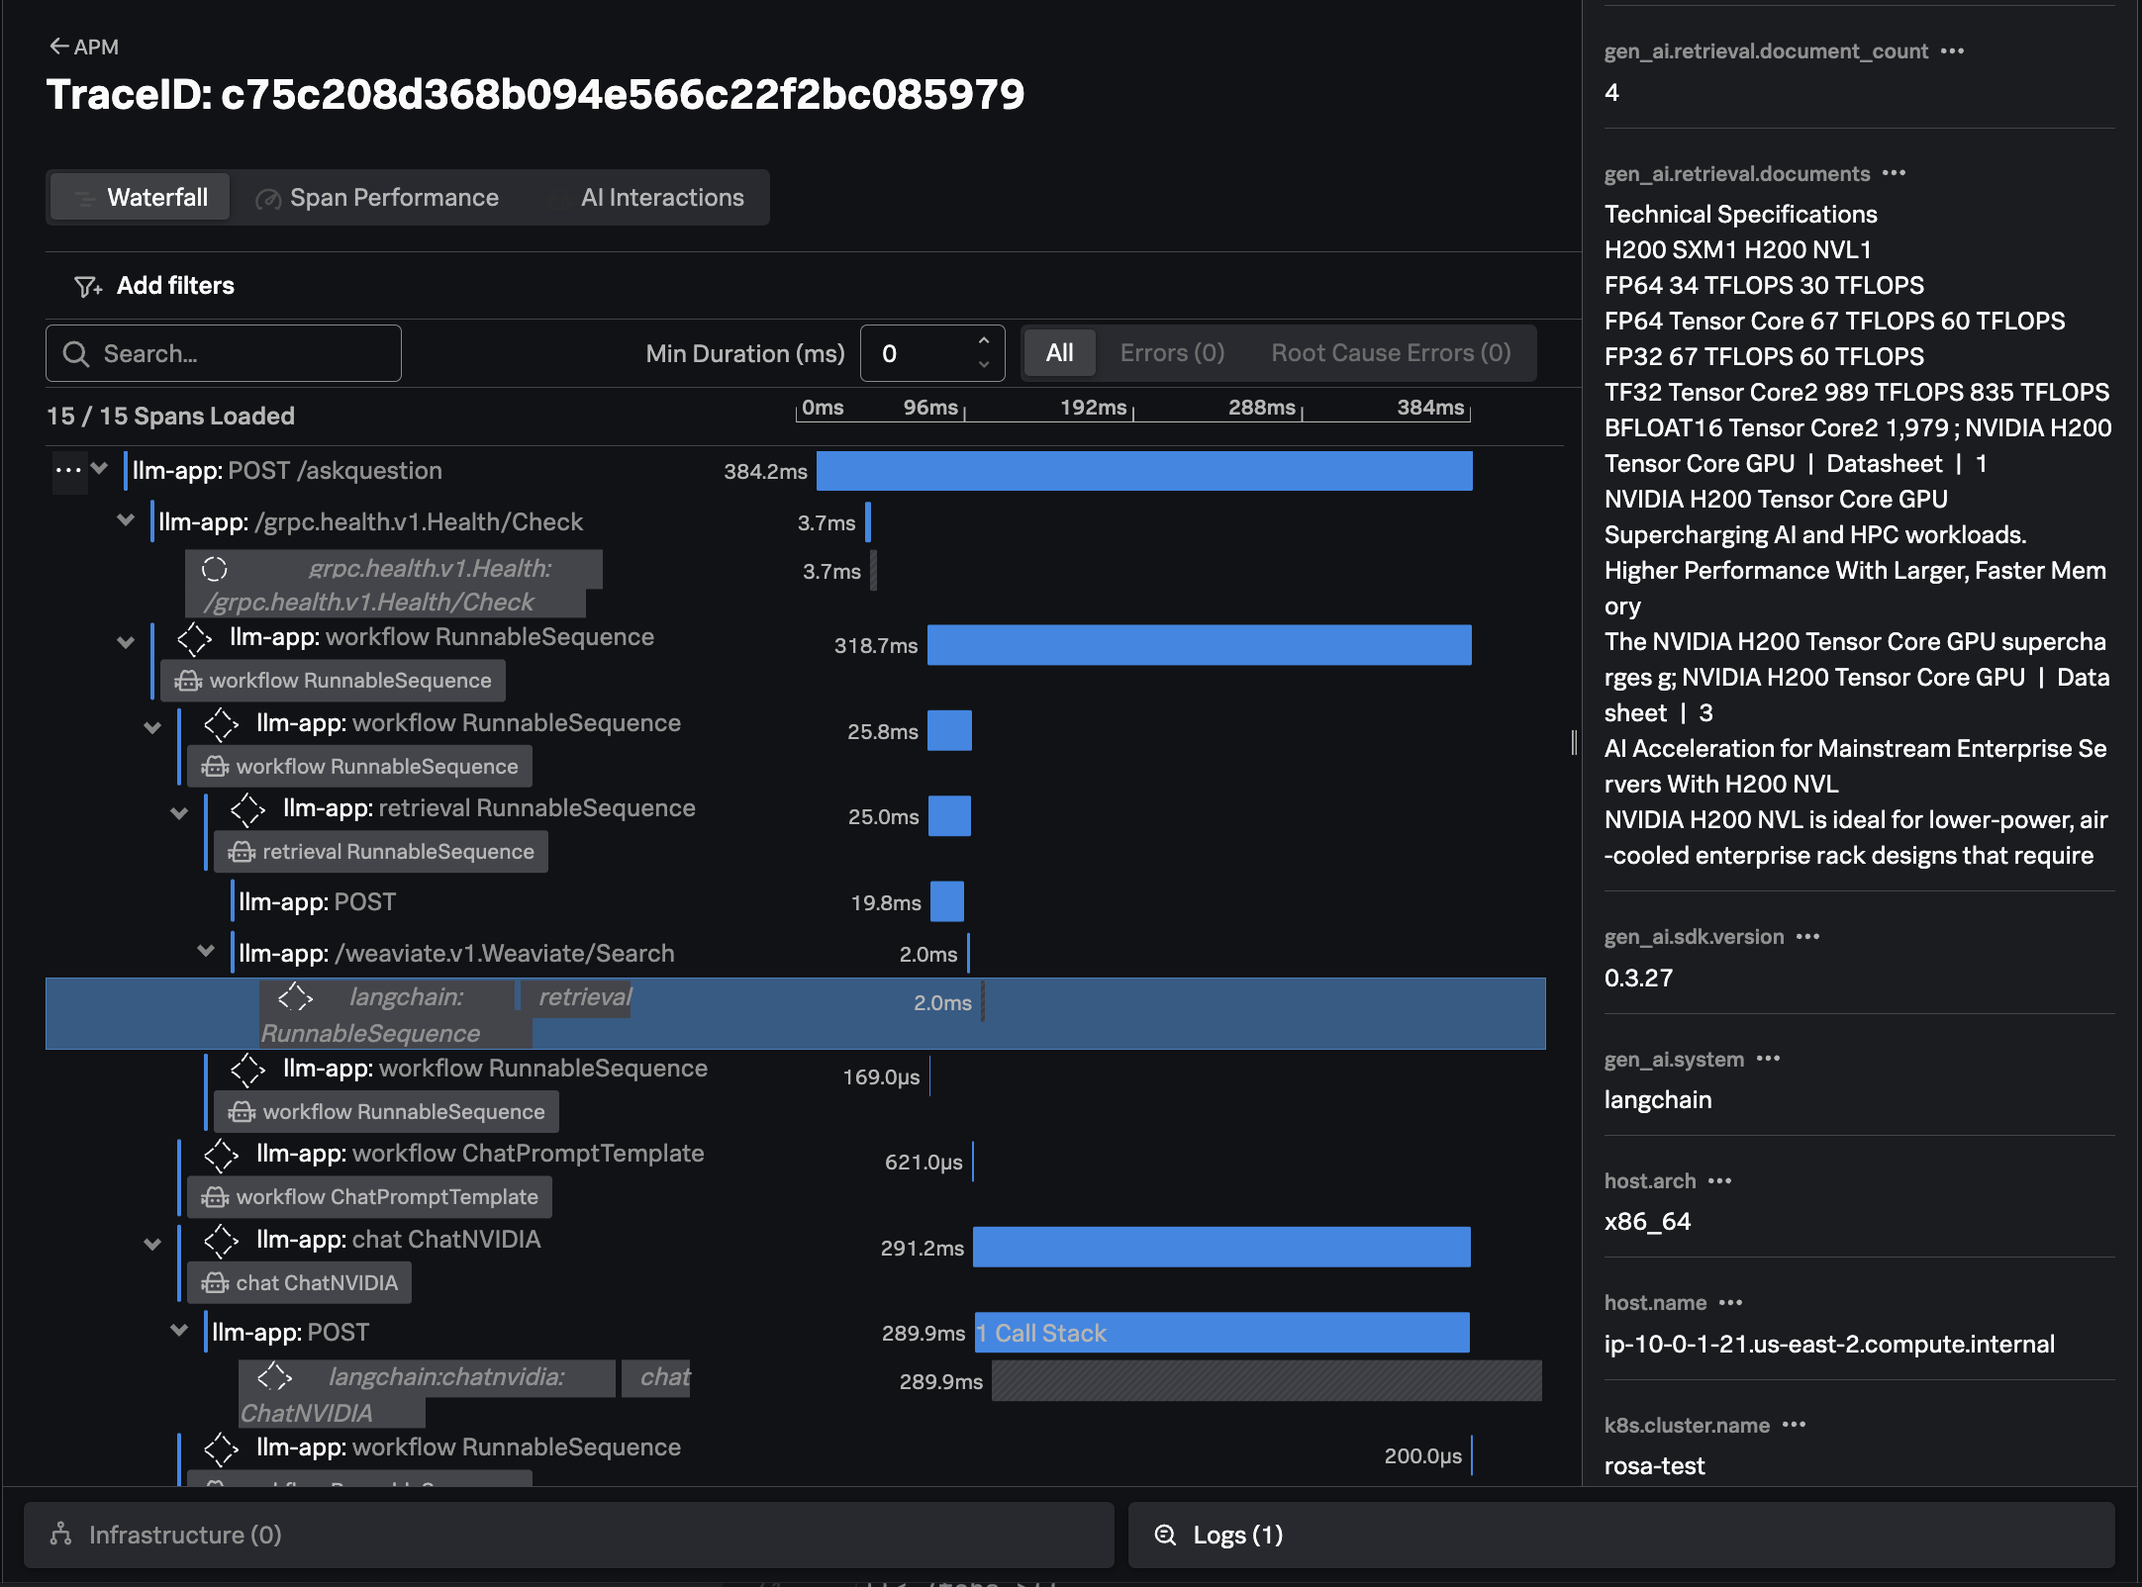
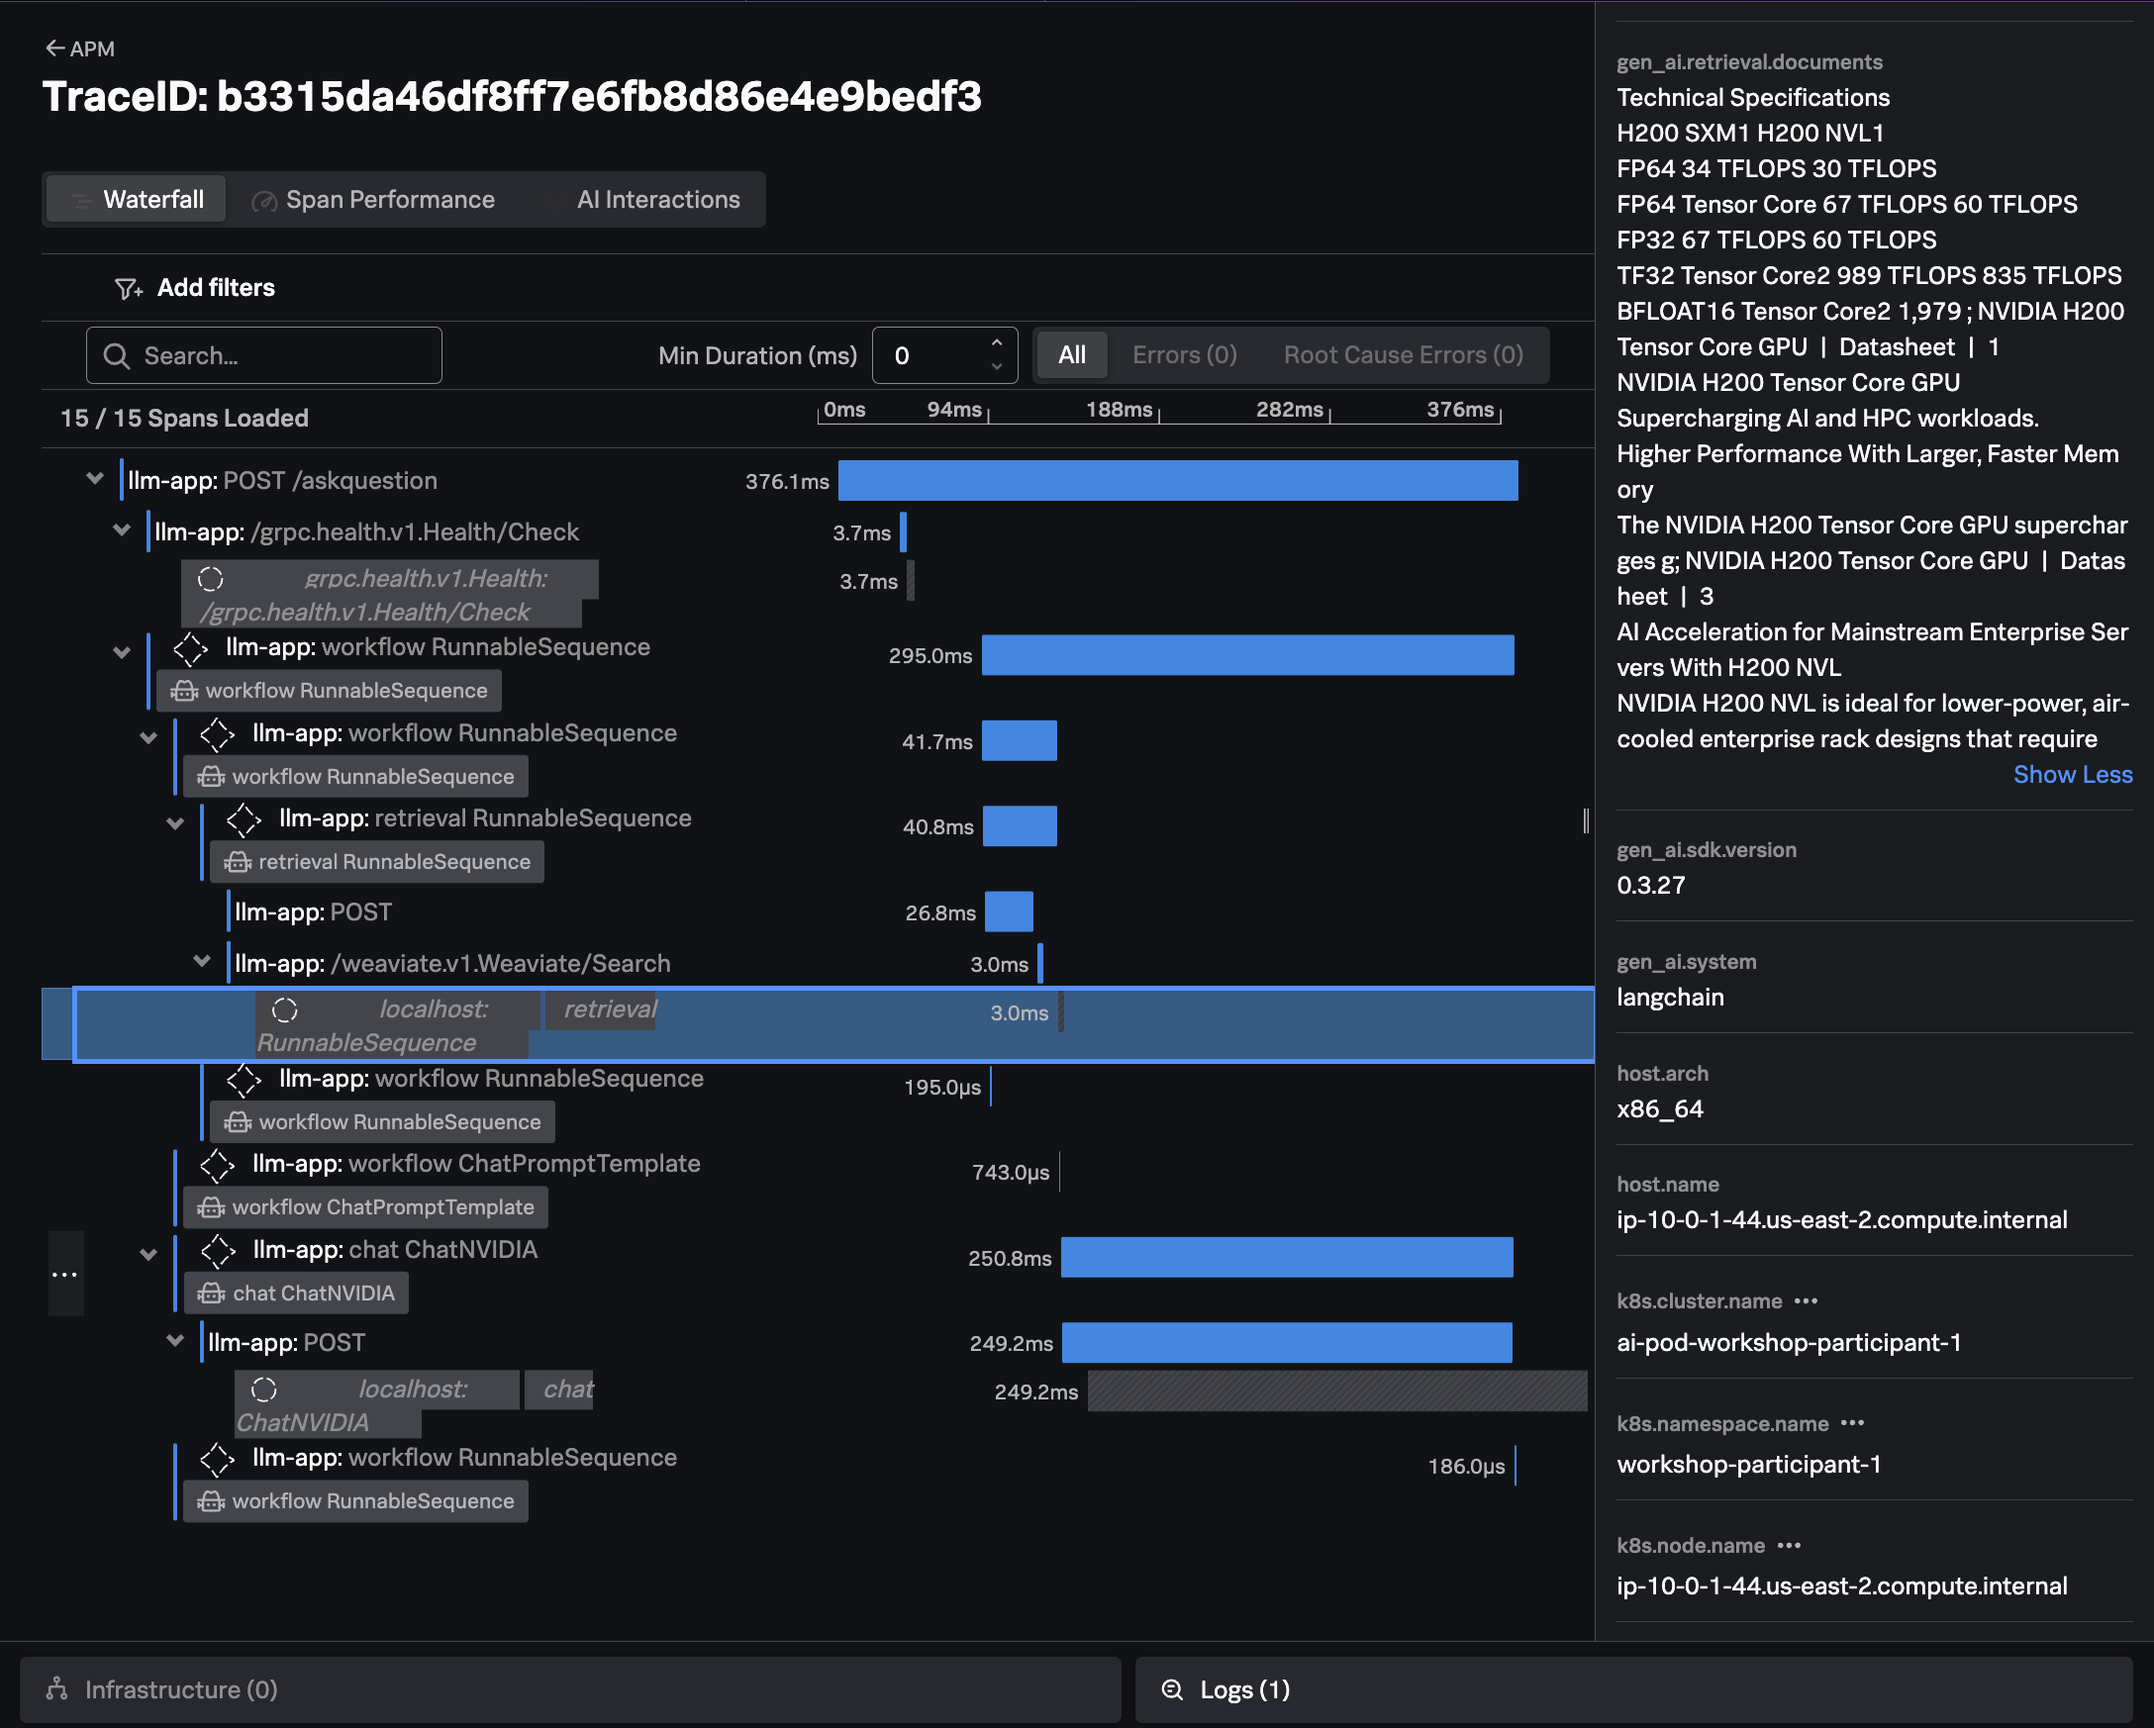
updated AI POD screenshots

Changed region(s): [[0.0, 0.0, 0.9908, 1.0]]

diff --git a/content/en/ninja-workshops/14-cisco-ai-pods/2-workshop/6-deploy-llm-app.md b/content/en/ninja-workshops/14-cisco-ai-pods/2-workshop/6-deploy-llm-app.md
@@ -185,7 +185,7 @@ The NVIDIA H200 has 141GB of HBM3e memory, which is twice the capacity of the NV
 ## View Trace Data in Splunk Observability Cloud
 
 In Splunk Observability Cloud, navigate to `APM` and then select `Service Map`. 
-Ensure your environment name is selected (e.g. `rosa-workshop-participant-1`).  
+Ensure your environment name is selected (e.g. `ai-pod-workshop-participant-1`).  
 You should see a service map that looks like the following: 
 
 ![Service Map](../../images/ServiceMap.png)
@@ -212,3 +212,14 @@ Finally, we can see the response from the LLM, the time it took, and the number 
 input and output tokens utilized: 
 
 ![LLM Response](../../images/LLMResponse.png)
+
+## Confirm Metrics are Sent to Splunk
+
+Navigate to `Dashboards` in Splunk Observability Cloud, then search for the
+`Cisco AI PODs Dashboard`, which is included in the `Built-in dashboard groups`.
+Navigate to the `NIM FOR LLMS` tab and ensure the dashboard is filtered
+on your OpenShift cluster name. The charts should be populated as in the
+following example:
+
+![NIM LLMS Dashboard](../../images/NIMLLM.png)
+
